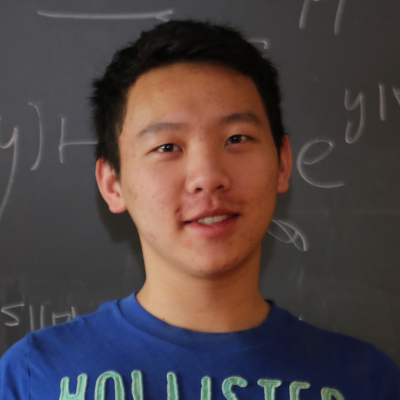
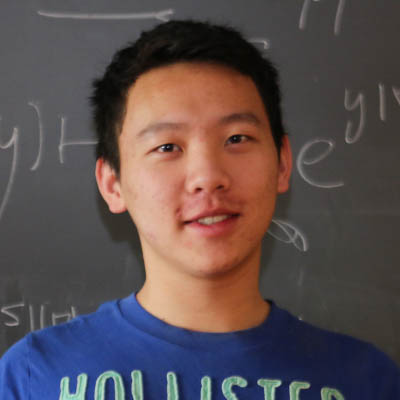
Added jquery scroll animations to team page, scroll to top buttons, edited photos in lightroom

diff --git a/team.html b/team.html
@@ -78,13 +78,13 @@
     <div class="container content">
       <h1 class="section-title">Leadership</h1>
       <p>Click on each profile to read the bio!</p>
-      Jump to: <a href="#directors">Directors</a> | <a href="#emeritus">Emeritus</a> | <a href="#content">Content</a> | <a href="#logistics">Logistics</a> | <a href="#finance">Financial</a> | <a href="#communications">Communications</a> | <a href="#tech">Tech</a>
+      Jump to: <a href="#directors" class="table-of-contents">Directors</a> | <a href="#emeritus" class="table-of-contents">Emeritus</a> | <a href="#content" class="table-of-contents">Content</a> | <a href="#logistics" class="table-of-contents">Logistics</a> | <a href="#finance" class="table-of-contents">Financial</a> | <a href="#communications" class="table-of-contents">Communications</a> | <a href="#tech" class="table-of-contents">Tech</a>
       <hr>
       <div id="profiles">
-        <h2 class="section-subtitle" id="directors">Tournament Directors</h2>
+        <h2 class="section-subtitle" id="directors">Tournament Directors <i class="fa fa-angle-double-up" id="scroll-top" data-toggle="tooltip" title="Scroll to top" aria-hidden="true"></i></h2>
         <div class="row">
           <div class="col-md-12">
-            <p class="section-description">Will and Shirley are responsible for overseeing all aspects of the competition!</p>
+            <p class="section-description">Will and Shirley oversee every aspect of the invitational as tournament directors.</p>
           </div>
           <div class="col-md-6">
             <ul class="list-group">
@@ -121,10 +121,10 @@
           </div>
         </div>
 
-        <h2 class="section-subtitle" id="emeritus">Directors Emeritus</h2>
+        <h2 class="section-subtitle" id="emeritus">Directors Emeritus <i class="fa fa-angle-double-up" id="scroll-top" data-toggle="tooltip" title="Scroll to top" aria-hidden="true"></i></h2>
         <div class="row">
         <div class="col-md-12">
-            <p class="section-description">After directing the tournament last year, David and Eddie are taking on an advisory role this year!</p>
+            <p class="section-description">After founding and directing the tournament last year, David and Eddie are taking on an advisory role this year.</p>
           </div>
           <div class="col-md-6">
             <ul class="list-group">
@@ -158,10 +158,10 @@
           </div>
         </div>
 
-        <h2 class="section-subtitle" id="content">Content Committee</h2>
+        <h2 class="section-subtitle" id="content">Content Committee <i class="fa fa-angle-double-up" id="scroll-top" data-toggle="tooltip" title="Scroll to top" aria-hidden="true"></i></h2>
         <div class="row">
           <div class="col-md-12">
-            <p class="section-description">The Content Committee is responsible for revising all tests for content, difficulty spread, relevancy and scorability, as well working with event supervisors to ensure all events have the materials and setups needed.</p>
+            <p class="section-description">The Content Committee is responsible for revising all tests for content, difficulty spread, relevancy and scorability, as well working with event supervisors to ensure that all events have the materials and setups needed.</p>
           </div>
           <div class="col-md-6">
             <ul class="list-group">
@@ -217,7 +217,7 @@
             <ul class="list-group">
               <li class="list-group-item" data-toggle="collapse" href="#seth-lovelace-bio" aria-expanded="false">
                 <div class="profile-main">
-                  <img src="img/bios/seth.png" alt="Seth Lovelace">
+                  <img src="img/bios/seth.jpg" alt="Seth Lovelace">
                   <div class="description">
                     <div class="profile-name">Seth Lovelace '20</div>
                     <div class="profile-title">Building Events</div>
@@ -231,8 +231,8 @@
           </div>
         </div>
 
-        <h2 class="section-subtitle" id="logistics">Logistics Committee</h2>
-        <p class="section-description">The Logistics Committee is responsible for ensuring that all logistical aspects of the competition run smoothly, from team check-in to food, t-shirts, room allocation, event material distribution, awards, grading, volunteers, etc.</p>
+        <h2 class="section-subtitle" id="logistics">Logistics Committee <i class="fa fa-angle-double-up" id="scroll-top" data-toggle="tooltip" title="Scroll to top" aria-hidden="true"></i></h2>
+        <p class="section-description">The Logistics Committee is responsible for ensuring that all logistical aspects of the competition run smoothly: from team check-in to the event schedule, food, t-shirts, room allocation, event materials, awards, grading, volunteer recruitment, etc.</p>
         <div class="row">
           <div class="col-md-6">
             <ul class="list-group">
@@ -284,8 +284,8 @@
           </div>
         </div>
 
-        <h2 class="section-subtitle" id="finance">Finance Committee</h2>
-        <p class="section-description">The Finance Committee is responsible for landing sponsorships, and ordering and tracking expenses.</p>
+        <h2 class="section-subtitle" id="finance">Finance Committee <i class="fa fa-angle-double-up" id="scroll-top" data-toggle="tooltip" title="Scroll to top" aria-hidden="true"></i></h2>
+        <p class="section-description">The Finance Committee is responsible for landing academic department/company sponsorships, and ordering and tracking expenses.</p>
         <div class="row">
           <div class="col-md-6">
             <ul class="list-group">
@@ -355,8 +355,8 @@
           </div>
         </div>
 
-        <h2 class="section-subtitle" id="communications">Communications</h2>
-        <p class="section-description">The Communications Committee is responsible for managing our outreach to teams via email and social media, as well as liasoning with departments on campus to ensure that all parties are well informed about tournament.</p>
+        <h2 class="section-subtitle" id="communications">Communications <i class="fa fa-angle-double-up" id="scroll-top" data-toggle="tooltip" title="Scroll to top" aria-hidden="true"></i></h2>
+        <p class="section-description">The Communications Committee is responsible for managing outreach to teams via email and social media, as well as liasoning with administration on campus to ensure that all parties are up-to-date about tournament preparations.</p>
         <div class="row">
           <div class="col-md-6">
             <ul class="list-group">
@@ -400,7 +400,7 @@
             <ul class="list-group">
               <li class="list-group-item" data-toggle="collapse" href="#sanna-lee-bio" aria-expanded="false">
                 <div class="profile-main">
-                  <img src="img/bios/sanna.png" alt="Sanna Lee">
+                  <img src="img/bios/sanna.jpg" alt="Sanna Lee">
                   <div class="description">
                     <div class="profile-name">Sanna Lee '20</div>
                   </div>
@@ -428,28 +428,28 @@
           </div>
         </div>
 
-        <h2 class="section-subtitle" id="tech">Tech Team</h2>
+        <h2 class="section-subtitle" id="tech">Tech Team <i class="fa fa-angle-double-up" id="scroll-top" data-toggle="tooltip" title="Scroll to top" aria-hidden="true"></i></h2>
         <p class="section-description">The Tech Team is responsible for creating and maintaining tools that aid the team in running the tournament.</p>
         <div class="row">
           <div class="col-md-6">
             <ul class="list-group">
               <li class="list-group-item" data-toggle="collapse" href="#yun-teng-bio" aria-expanded="false">
                 <div class="profile-main">
-                  <img src="img/bios/placeholder.png" alt="Yun Teng">
+                  <img src="img/bios/yun.jpg" alt="Yun Teng">
                   <div class="description">
                     <div class="profile-name">Yun Teng '19</div>
                     <div class="profile-title">Webmaster</div>
                   </div>
                 </div>
                 <div class="collapse profile-bio" id="yun-teng-bio">
-                  Yun is a former Science Olympiad building event enthusiast from Camas High School in Washington state, who medaled at the national tournament in 2012 (1st place - Sounds of Music), 2014 (5th place - ELG), and 2015 (5th place - Wright Stuff). He now aims to make the build event experience at Princeton University Invitational as great as it can be, and hopes that more students can be inspired to try their hand at engineering. Along with David, he redesigned the entire site this past summer and hopes that you like it :)
+                  Yun is a former Science Olympiad building event enthusiast from Camas High School in Washington (state), who medaled at the national tournament in 2012 (1st place - Sounds of Music), 2014 (5th place - ELG), and 2015 (5th place - Wright Stuff). He now aims to make the build event experience at Princeton University Invitational as great as it can be, and hopes that more students can be inspired to try their hand at engineering. Along with David, he redesigned the entire site this past summer and hopes that you like it :)
                 </div>
               </li>
             </ul>
           </div>
         </div>
 
-        <h2 class="section-subtitle">Event Supervisors</h2>
+        <h2 class="section-subtitle">Event Supervisors <i class="fa fa-angle-double-up" id="scroll-top" data-toggle="tooltip" title="Scroll to top" aria-hidden="true"></i></h2>
         <p class="section-description">Coming soon!</p>
 
       </div>
@@ -466,6 +466,25 @@
         </div>
       </div>
     </div>
+    <script>
+      $(document).ready(function(){
+        /* Hover animation for scroll-up tooltip textbox */
+        $('[data-toggle="tooltip"]').tooltip({
+          animation: true,
+          delay: {show: 25, hide: 25}
+        });
+        /* Smooth scroll for any element with id "scroll-top" */
+        $("body").on("click", "#scroll-top", function(){
+          $('html, body').animate({ scrollTop: 0 }, "250");
+        });
+        /* Smooth scroll for any link in the table of contents on team page */
+        $("body").on("click", ".table-of-contents", function(){
+          event.preventDefault(); // Disable the link set in the href
+          var $anchor = $(this).attr('href');
+          $('html, body').animate({ scrollTop: $($anchor).offset().top }, "275");
+        });
+      })
+    </script>
   </body>
 
 </html>

diff --git a/about.html b/about.html
@@ -79,13 +79,13 @@
       <div class="row">
         <div class="col-lg-12">
           <h1 class="section-title">Our Mission</h1>
-          <p>Princeton University Science Olympiad seeks to translate the collective wealth of student experience and institutional resources at Princeton into providing teams of all backgrounds with the best invitational experience possible. This tournament is led and organized entirely by students at Princeton who have medaled at the highest levels of competition, and have ran events for regional, state and invitational tournaments across the country. Our team knows exactly what goes into an outstanding Science Olympiad tournament experience, and on <b>Saturday February 10th, 2018</b>, we will be hosting the second annual Princeton University Science Olympiad Invitational Tournament for Division C (high school).</p>
+          <p>Princeton University Science Olympiad seeks to translate the abundance of student experience and institutional resources at Princeton into providing teams of all backgrounds with the best invitational experience possible. This tournament is led and organized entirely by students at Princeton who have medaled at the highest levels of competition, and have ran events for regional, state and invitational tournaments across the country. Our team knows exactly what goes into an outstanding Science Olympiad tournament experience, and on <b>Saturday February 10th, 2018</b>, we will be hosting the second annual Princeton University Science Olympiad Invitational Tournament for Division C (high school).</p>
 
           <h1 class="section-title">What We Offer</h1>
-          <p>All 23 Division C events will run per the national event rules and the competition schedule will closely resemble that of the National Tournament, allowing for a challenging and representative experience. Coaches will not be required to volunteer or run any events, and thus are free to supervise their teams. Our invitational tournament provides teams with rigorous preparation for regional and state tournaments, as well as the national tournament. Last year, nearly half of the events were ran by national medalists, and all events were ran by students with a track record of medaling at states and top-tier invitationals. All exams and labs undergo multiple revisions by our executive board for consistency, appropriate difficulty spread and content relevance. This year, we once again offer a fun and challenging competition experience suitable for teams of all levels and backgrounds. Following the tournament, all teams will receive copies of the tests and solutions. Full tests and solutions from last year may be found in the archive.</p>
+          <p>All 23 Division C events will run per the national event rules and the competition schedule will closely resemble that of the National Tournament, allowing for a challenging and representative experience. Coaches will not be required to volunteer or run any events, and thus are free to supervise their teams. Our invitational tournament provides teams with rigorous preparation for regional and state tournaments, as well as the national tournament. Last year, nearly half of the events were ran by national medalists, and all events were ran by students with a track record of medaling at states and top-tier invitationals. All exams and labs undergo multiple revisions by our executive board for consistency, appropriate difficulty spread and content relevance. This year, we once again offer a fun and challenging competition experience suitable for teams of all levels and backgrounds. Following the tournament, all teams will receive copies of the tests and solutions. <i>Full tests and solutions from last year</i> may be found in the archive.</p>
 
           <h1 class="section-title">History</h1>
-          <p>Princeton University Science Olympiad was founded in fall 2016 by David Fan ('19) and Edison Lee ('19) with the administrative support of the School of Engineering and Office of Environmental Health and Safety. The very first Princeton University Invitational hosted 36 teams from four states on February 4th, 2017. In its second year, Princeton University Science Olympiad looks forward to expanding the tournament to 45 teams, waiving registration fees, as well as continuing to perfect all aspects of the competition experience.</p>
+          <p>Princeton University Science Olympiad was founded in fall 2016 by David Fan ('19) and Edison Lee ('19) with the administrative support of the <a href="https://www.princeton.edu/engineering/" target="_blank">School of Engineering and Applied Science</a> and <a href="https://ehs.princeton.edu/" target="_blank">Office of Environmental Health and Safety</a>. The very first Princeton University Invitational hosted 36 teams from four states on <b>February 4th, 2017</b>. In its second year, Princeton University Science Olympiad looks forward to expanding the tournament to 48 teams, waiving registration fees, as well as continuing to perfect all aspects of the competition experience.</p>
         </div>
       </div>
     </div>

diff --git a/info.html b/info.html
@@ -13,7 +13,7 @@
     <link rel="stylesheet" href="css/main.css">
 
     <!-- Custom Fonts -->
-    <link href="https://fonts.googleapis.com/css?family=Open+Sans|Source+Sans+Pro|Lato:100,300,400,700,900" rel="stylesheet">
+    <link href="https://fonts.googleapis.com/css?family=Lato:100,300,400,700,900" rel="stylesheet">
 
     <!-- Latest compiled and minified JavaScript: must load JQuery before Bootstrap -->
     <script src="https://code.jquery.com/jquery-3.2.1.min.js" integrity="sha256-hwg4gsxgFZhOsEEamdOYGBf13FyQuiTwlAQgxVSNgt4=" crossorigin="anonymous"></script>
@@ -81,7 +81,7 @@
           <h1 class="section-title">Tournament Information</h1>
           <hr>
 
-          <p>The registration link for next year's invitational tournament will be posted here on Tuesday September 19, 2017, at 12:30 PM ET. This year, we are happy to announce that the participation fee will be waived for all teams.</p>
+          <p>The registration link for next year's invitational tournament will be posted here on <b>Tuesday September 19, 2017</b>, at <b>12:30 PM ET</b>. This year, we are happy to announce that the participation fee will be waived for all teams.</p>
 
           <h2 class="section-subtitle">Registration Policies</h2>
           <ul>
@@ -96,7 +96,7 @@
             <li>All events will be run by Science Olympiad alumni who have medaled at Nationals or the State level, and all tests will be checked and revised by our executive board for consistency. All tests and keys will be made available to teams after competition.</li>
             <li>Every team will be assigned a homeroom to stay in during competition day.</li>
             <li>The tournament schedule will adhere closely to the national tournament schedule.</li>
-            <li>All events will follow the national rules. For events which have different rules or content for different levels of competition, we will adhere to the rules specified for the regional level.</li>
+            <li>All events will follow the national rules. For events that have different rules or content for different levels of competition, we will adhere to the rules specified for the regional level.</li>
             <li>Teams may photograph or record videos of their own team's build devices but may not do so for any other team. We will have official photographers take photos that will be released post-tournament.</li>
           </ul>
 

diff --git a/css/main.css b/css/main.css
@@ -8,6 +8,15 @@ body {
   font-family: "Lato", "Helvetica Neue", Helvetica, Arial, sans-serif;
 }
 
+#scroll-top {
+  margin-left: 25px;
+  font-size: 24px;
+  color: #2D73B0;
+}
+#scroll-top:hover{
+  color: #23527c !important;
+}
+
 .btn {
   background-image: none;
   border: none;
